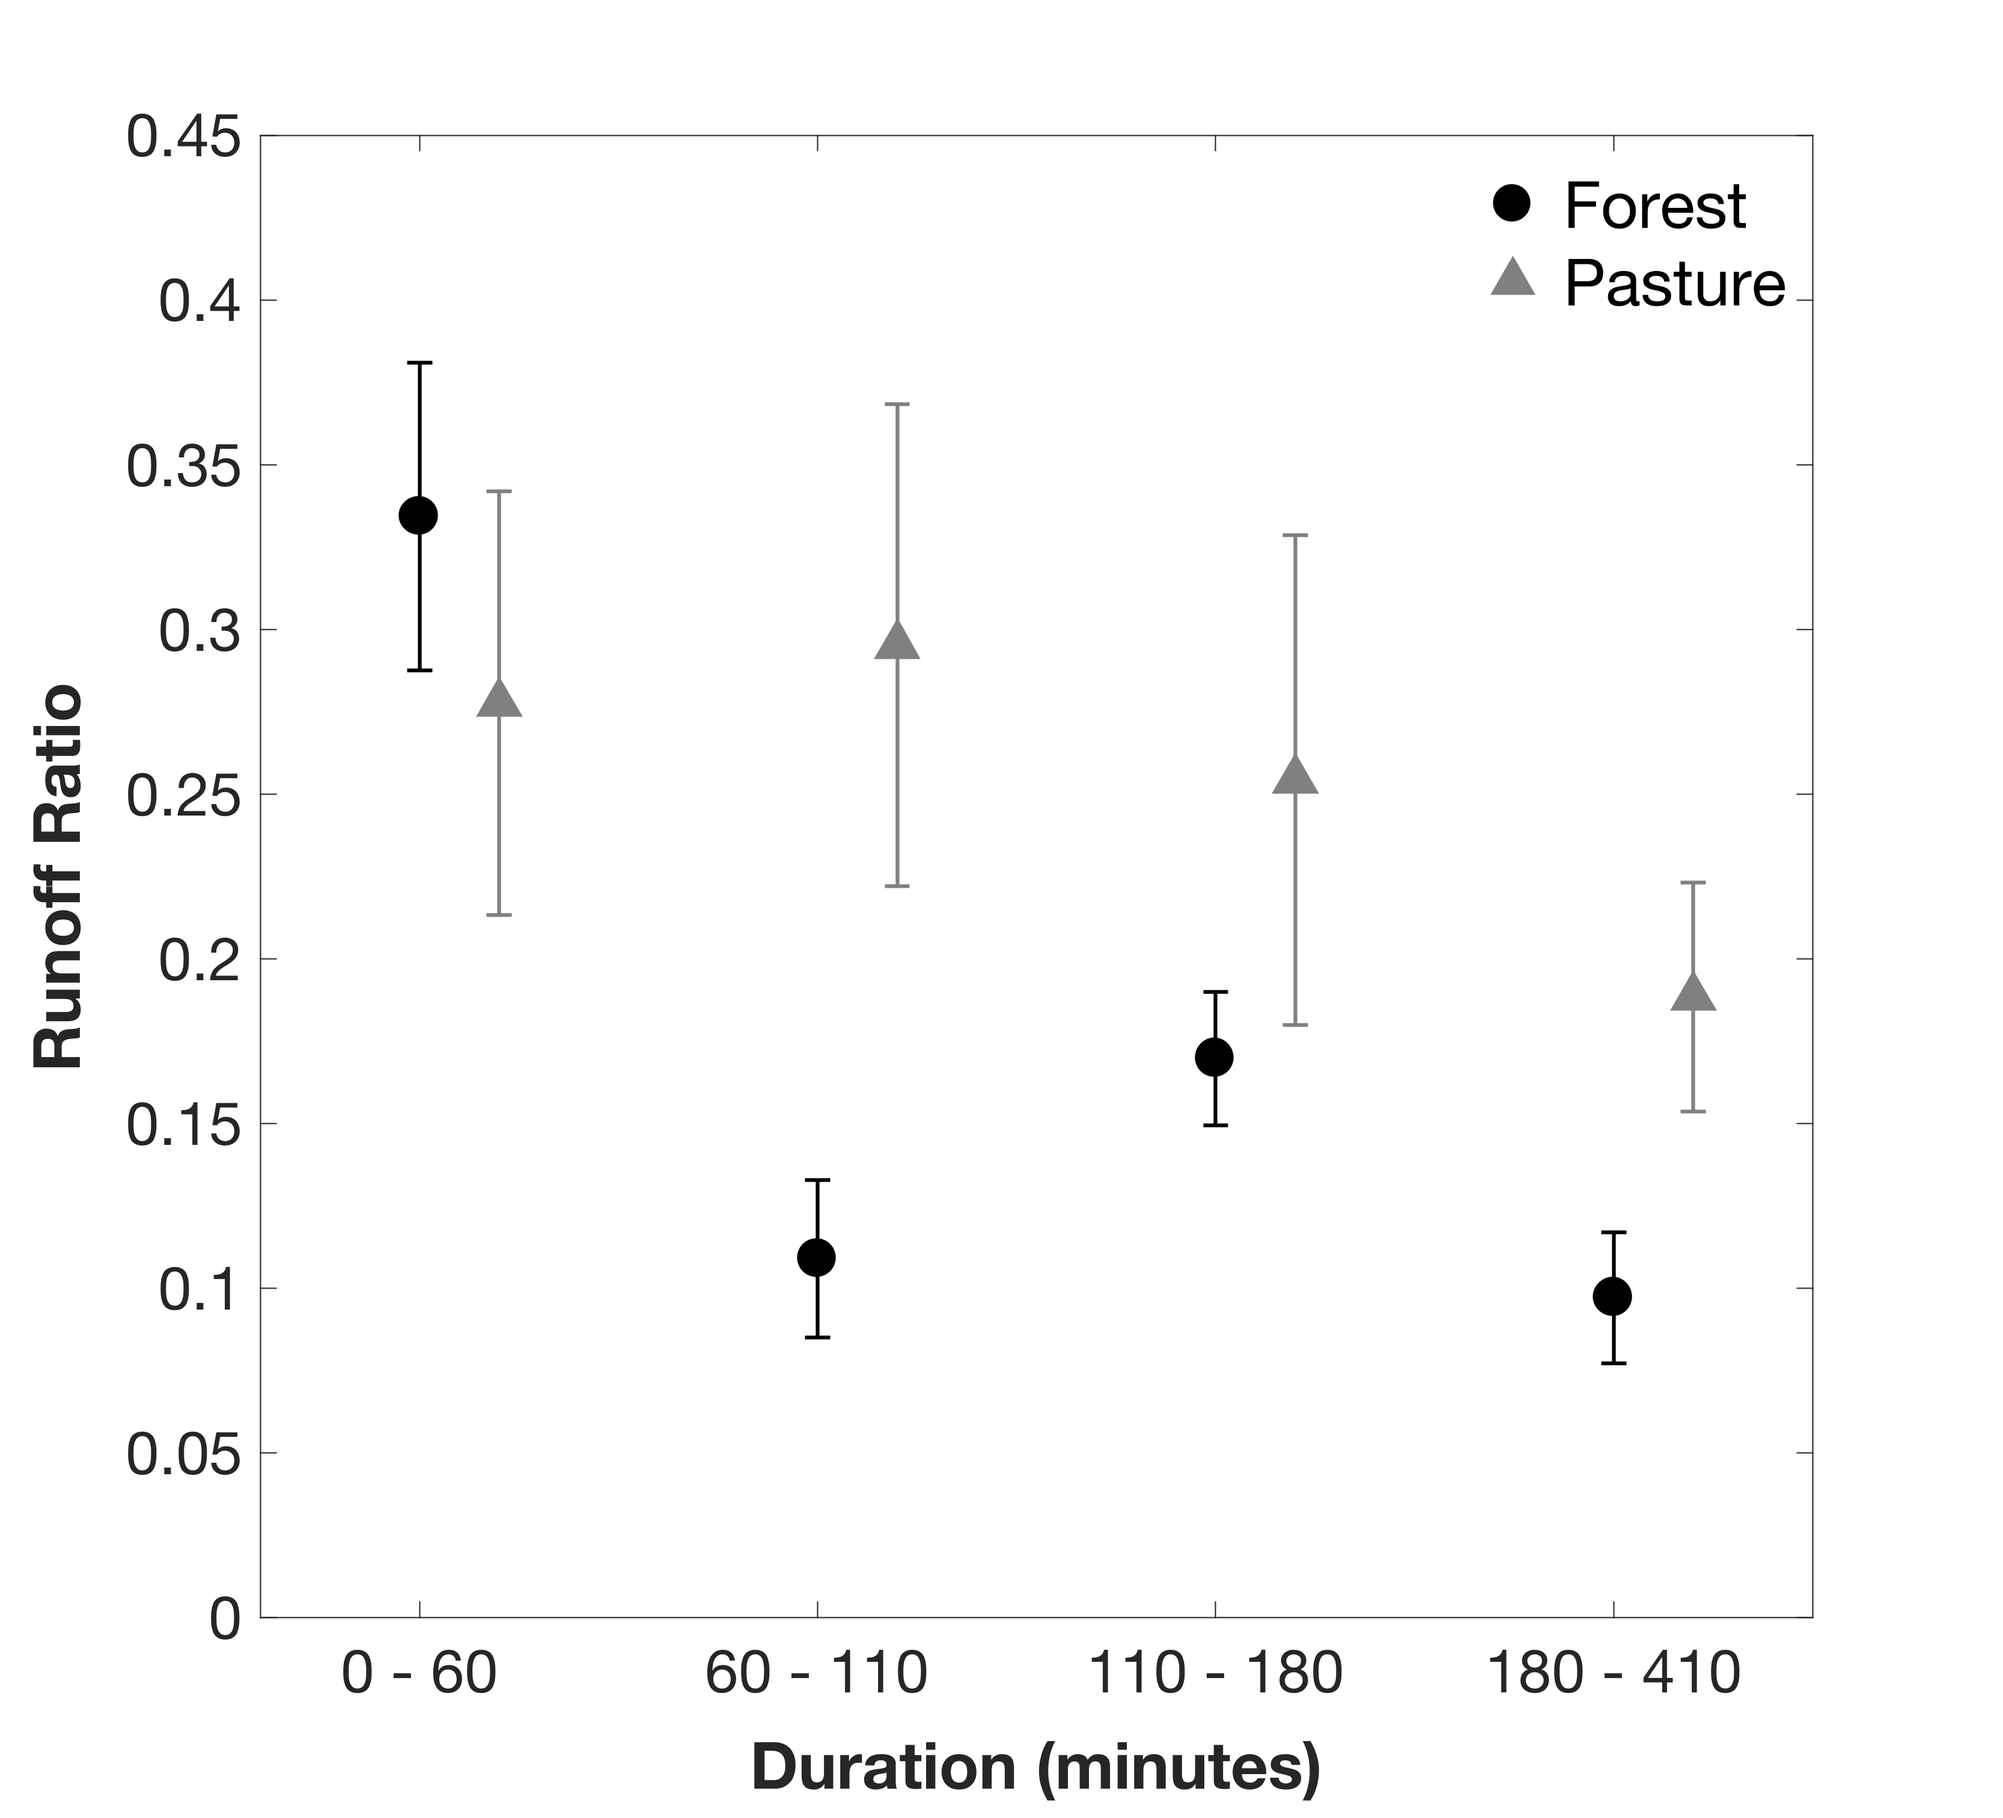
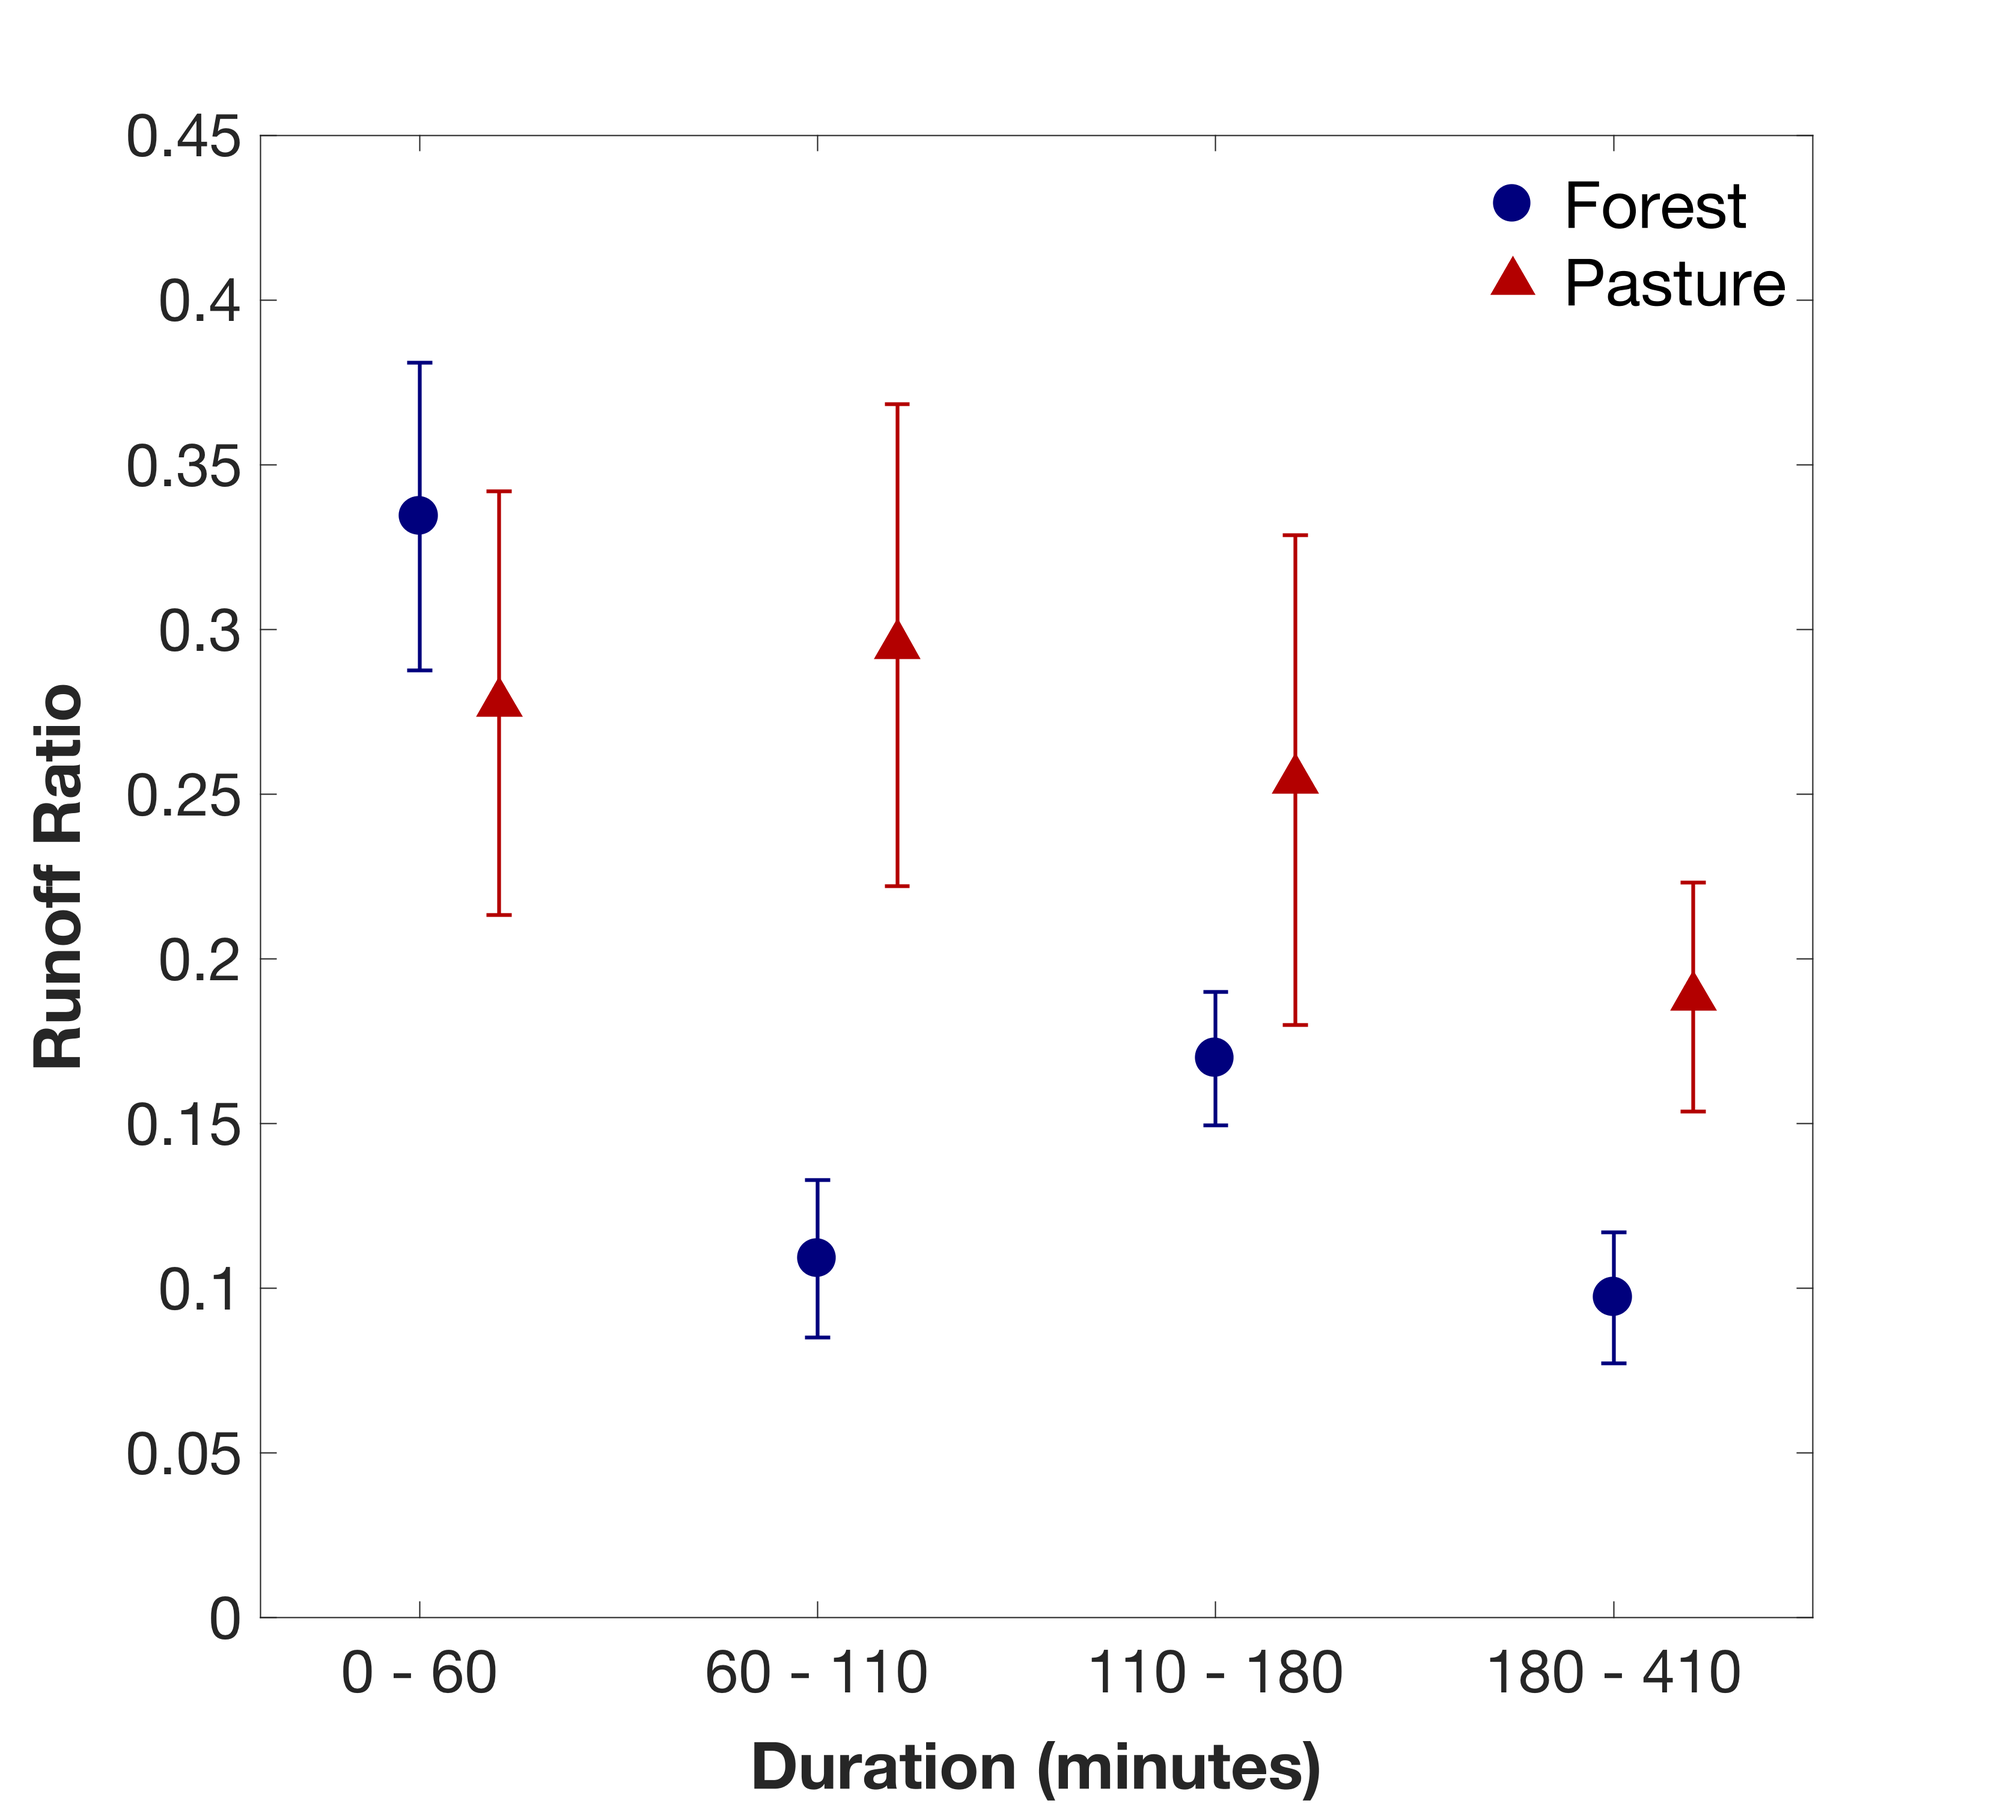
Updating plot formatting for publication.

diff --git a/Soil Char/ProcessRawSCData.m b/Soil Char/ProcessRawSCData.m
@@ -26,12 +26,12 @@ S.Val(S.Measurement == 'VWC') = S.Val(S.Measurement == 'VWC') * 100;
 
 
 % Universal values for text sizes.
-yLabTxtSize = 14;
-lgdTxtSize = 14;
-yTickTxtSize = 14;
+yLabTxtSize = 26;
+lgdTxtSize = 26;
+yTickTxtSize = 24;
 lineSize = 3;
-titleFontSize = 20;
-axisFontSize = 18;
+titleFontSize = 26;
+axisFontSize = 26;
 
 
 
@@ -140,7 +140,7 @@ end
 
 
 
-plotBDDepthDate = false;
+plotBDDepthDate = true;
 if plotBDDepthDate
     % Choose which type and which measurement we're looking at.
     rows = (S.Type == 'dep' & S.Measurement == 'BD');
@@ -149,18 +149,20 @@ if plotBDDepthDate
     vals =  S.Val(rows(:,3));
 
     % TODO: Change this nasty hard coding of colors.
-    colors = 'rbbrbb';
+    % colors = 'rbbrbb';
+    colors = [0.7031 0 0; 0 0 0.4883; 0 0 0.4883; 0.7031 0 0; 0 0 0.4883; 0 0 0.4883;]
     % colors = 'rb';
     figure
     bh = boxplot(vals, {dates}, 'Symbol', '+', 'Colors', colors);
     set(bh(:), 'linewidth', lineSize);
     % Turn on the legend (different colors for MAT and PAS).
     boxes = findobj(gca, 'Tag', 'Box');
-    legend(boxes(end-1:end), {'PAS', 'MAT'}, 'FontSize', 14, 'location', 'northwest');
+    legend(boxes(end-1:end), {'PAS', 'MAT'}, 'FontSize', lgdTxtSize, 'location', 'northwest');
     % Rotate the x axis tick labels.
     g = gca;
     g.XTickLabelRotation = 20;
-    ylabel('Depth Bulk Density (g/cm^3)', 'Fontsize', 14);
+    g.FontSize = yTickTxtSize;
+    ylabel('Depth Bulk Density (g cm^-3)', 'Fontsize', yLabTxtSize);
 end
 
 
@@ -174,7 +176,7 @@ end
 
 
 
-plotBDDepthVsType = false;
+plotBDDepthVsType = true;
 if plotBDDepthVsType
     % We're looking at the depth measurements of bulk density.
     rows = (S.Type == 'dep' & S.Measurement == 'BD');
@@ -184,11 +186,12 @@ if plotBDDepthVsType
     vals =  S.Val(rows(:,3));
 
     % TODO: Change this nasty hard coding of colors.
-    colors = 'rb';
+    % colors = 'br';
+    colors = [0 0 0.4883; 0.7031 0 0];
     figure
     plotPretty = true;
     if plotPretty == true
-        labels = {'-50', '', '-30', '', '-10', '', '0', ''};
+        labels = {'50', '', '30', '', '10', '', '0', ''};
         order = { 'D,M', 'D,P', 'C,M', 'C,P', 'B,M', 'B,P', 'A,M', 'A,P'};
         bh = boxplot(vals, {points, sites}, 'Symbol', '+', ...
                     'FactorGap', [25, 1], 'Colors', colors, ...
@@ -205,9 +208,9 @@ if plotBDDepthVsType
     % Modify the axis tick labels.
     g = gca;
     g.FontSize = yTickTxtSize;
-    ylabel('Depth (cm)', 'Fontsize', 18);
-    xlabel('Bulk Density (g/cm^3)', 'Fontsize', 18);
-    title('Bulk Density vs Depth','FontSize', 20);
+    ylabel('Depth (cm)', 'Fontsize', 26);
+    xlabel('Bulk Density (g/cm^3)', 'Fontsize', 26);
+    % title('Bulk Density vs Depth','FontSize', 20);
 end
 
 
@@ -359,7 +362,7 @@ end
 
 
 
-plotMultCompVWCDepth = true;
+plotMultCompVWCDepth = false;
 if plotMultCompVWCDepth
     % We're looking at depth values pooled across time and grouped by depth and site.
     rows = (S.Type == 'dep' & S.Measurement == 'VWC');
@@ -498,7 +501,7 @@ if doDataExport
             spaMeas(end+1) = thisSpaMeas;
 
             % Pick out depth measurements from the table.
-            % Valid measurements are Depth B, C and D. 
+            % Valid measurements are Depth B, C and D.
             depRows = (S.Measurement == measurements{whichMeas} & S.Site == sites{whichSite} & ( S.Type == 'dep' & S.Point ~= 'A' ));
             thisDepMeas.vals = S.Val(depRows(:,3));
             thisDepMeas.name = measurements{whichMeas};

diff --git a/PrecipRunoff/RainEvents/C_RainEvent.m b/PrecipRunoff/RainEvents/C_RainEvent.m
@@ -198,7 +198,7 @@ classdef C_RainEvent < handle
             titleFontSize = 26;
             axisFontSize = 24;
             labelFontSize = 26;
-            grayscale = true;
+            grayscale = false;
 
             % Set the current figure to the passed handle, if available.
             if ishandle(figHandle)
@@ -241,7 +241,7 @@ classdef C_RainEvent < handle
             t = title('(a)', 'FontSize', titleFontSize);
             % Move title to the left
             set(t, 'Position', [0.2, t.Position(2:3)]);
-%             TODO: debug why above doesn't work. 
+%             TODO: debug why above doesn't work.
 %             set(get(gca,'title'),'Position',[5.5 0.4 1.00011]);
 
             set(gca,'xtick',[])
@@ -372,7 +372,7 @@ classdef C_RainEvent < handle
               warning(['plotBar called with invalid arguments: ' origOrMod ' ' type]);
           end
 
-          grayscale = true;
+          grayscale = false;
 
             % Consider switching BOTH to just TB here, would be ugly to plot all
             % 6 TB and runoff bars together.
@@ -415,7 +415,9 @@ classdef C_RainEvent < handle
             if ~runoffSizeMismatch
                 % Plot runoff bars inside precip bars.
                 hold on;
-                handle = bar(obj.precipTimes, allVals, 0.75);
+                % Flip columns left to right to change plot from low,mid,up to up,mid,low
+                flippedVals = fliplr(allVals);
+                handle = bar(obj.precipTimes, flippedVals, 0.75);
                 cmap = colormap(lines);
                 for i = 1:length(handle)
                     % Don't plot the first bar with the same color as the
@@ -427,8 +429,10 @@ classdef C_RainEvent < handle
                     end
                     handle(i).EdgeColor = handle(i).FaceColor;
                 end
-                legText = [legText {['Lower'], ['Middle'], ['Upper']}];
-                legend(legText, 'FontSize', 26);
+                legText = [legText {['Upper'], ['Middle'], ['Lower']}];
+                lh = legend(legText, 'FontSize', 26);
+                newOrder = [length(handle):-1:1];
+                lh.PlotChildren = lh.PlotChildren(newOrder);
                 hold off;
             end
         end

diff --git a/PrecipRunoff/RainEvents/plotErrorBars.m b/PrecipRunoff/RainEvents/plotErrorBars.m
@@ -97,14 +97,22 @@ function [handle] = plotErrorBars(xFieldName, yFieldName, data, details, fixedEd
     markerSize = 14;
 
     % To get different colors for MAT and PAS, plot them separately.
+    cmap = colormap(jet(20));
     handle = figure('position', [0, 0, 800, 800]);
     ebMAT = errorbar(pltData.x(pltData.isMAT), pltData.y(pltData.isMAT), pltData.err(pltData.isMAT), 'o', 'LineWidth', linesize, 'MarkerSize', markerSize, 'CapSize', capsize);
-    ebMAT.Color = 'black';
-    ebMAT.MarkerFaceColor = 'black';
+    % ebMAT.Color = 'black';
+    % ebMAT.MarkerFaceColor = 'black';
+    ebMAT.Color = [0 0 0.4883];
+    disp(['MAT color:']);
+    [0 0 0.4883];
+    ebMAT.MarkerFaceColor = [0 0 0.4883];
     hold on;
     ebPAS = errorbar(pltData.x(~pltData.isMAT), pltData.y(~pltData.isMAT), pltData.err(~pltData.isMAT), '^', 'LineWidth', linesize, 'MarkerSize', markerSize, 'CapSize', capsize);
-    ebPAS.Color = [0.5 0.5 0.5];
-    ebPAS.MarkerFaceColor = [0.5 0.5 0.5];
+    % ebPAS.Color = [0.5 0.5 0.5];
+    % ebPAS.MarkerFaceColor = [0.5 0.5 0.5];
+    disp(['PAS color:']);
+    ebPAS.Color = [0.7031 0 0];
+    ebPAS.MarkerFaceColor = [0.7031 0 0];
 
     set(gca,'FontSize',tickSize);
     xticks(1:floor(max(pltData.x)));
